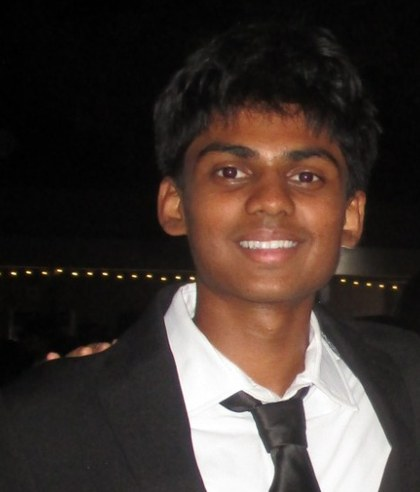
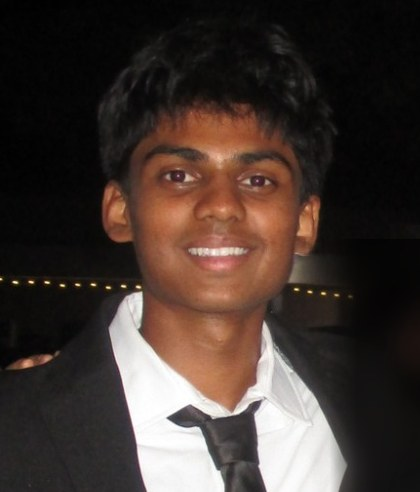
Profile photo: center face

diff --git a/404.html b/404.html
@@ -22,7 +22,7 @@
 <body>
   <div class="wrap">
     <header class="site-header">
-      <div class="avatar"><img src="/assets/img/kishan.jpg?v=4" width="420" height="492" alt="Kishan Paschapur"></div>
+      <div class="avatar"><img src="/assets/img/kishan.jpg?v=5" width="420" height="492" alt="Kishan Paschapur"></div>
       <div>
         <p class="site-name"><a href="/">Kishan Paschapur</a></p>
         <p class="tagline">High school junior · ML research &amp; systems</p>

diff --git a/hackathons/index.html b/hackathons/index.html
@@ -22,7 +22,7 @@
 <body>
   <div class="wrap">
     <header class="site-header">
-      <div class="avatar"><img src="/assets/img/kishan.jpg?v=4" width="420" height="492" alt="Kishan Paschapur"></div>
+      <div class="avatar"><img src="/assets/img/kishan.jpg?v=5" width="420" height="492" alt="Kishan Paschapur"></div>
       <div>
         <p class="site-name"><a href="/">Kishan Paschapur</a></p>
         <p class="tagline">High school junior · ML research &amp; systems</p>

diff --git a/index.html b/index.html
@@ -22,7 +22,7 @@
 <body>
   <div class="wrap">
     <header class="site-header">
-      <div class="avatar"><img src="/assets/img/kishan.jpg?v=4" width="420" height="492" alt="Kishan Paschapur"></div>
+      <div class="avatar"><img src="/assets/img/kishan.jpg?v=5" width="420" height="492" alt="Kishan Paschapur"></div>
       <div>
         <p class="site-name"><a href="/">Kishan Paschapur</a></p>
         <p class="tagline">High school junior · ML research &amp; systems</p>

diff --git a/projects/index.html b/projects/index.html
@@ -22,7 +22,7 @@
 <body>
   <div class="wrap">
     <header class="site-header">
-      <div class="avatar"><img src="/assets/img/kishan.jpg?v=4" width="420" height="492" alt="Kishan Paschapur"></div>
+      <div class="avatar"><img src="/assets/img/kishan.jpg?v=5" width="420" height="492" alt="Kishan Paschapur"></div>
       <div>
         <p class="site-name"><a href="/">Kishan Paschapur</a></p>
         <p class="tagline">High school junior · ML research &amp; systems</p>

diff --git a/research/index.html b/research/index.html
@@ -22,7 +22,7 @@
 <body>
   <div class="wrap">
     <header class="site-header">
-      <div class="avatar"><img src="/assets/img/kishan.jpg?v=4" width="420" height="492" alt="Kishan Paschapur"></div>
+      <div class="avatar"><img src="/assets/img/kishan.jpg?v=5" width="420" height="492" alt="Kishan Paschapur"></div>
       <div>
         <p class="site-name"><a href="/">Kishan Paschapur</a></p>
         <p class="tagline">High school junior · ML research &amp; systems</p>

diff --git a/writing/dead-or-alive/index.html b/writing/dead-or-alive/index.html
@@ -22,7 +22,7 @@
 <body>
   <div class="wrap">
     <header class="site-header">
-      <div class="avatar"><img src="/assets/img/kishan.jpg?v=4" width="420" height="492" alt="Kishan Paschapur"></div>
+      <div class="avatar"><img src="/assets/img/kishan.jpg?v=5" width="420" height="492" alt="Kishan Paschapur"></div>
       <div>
         <p class="site-name"><a href="/">Kishan Paschapur</a></p>
         <p class="tagline">High school junior · ML research &amp; systems</p>
